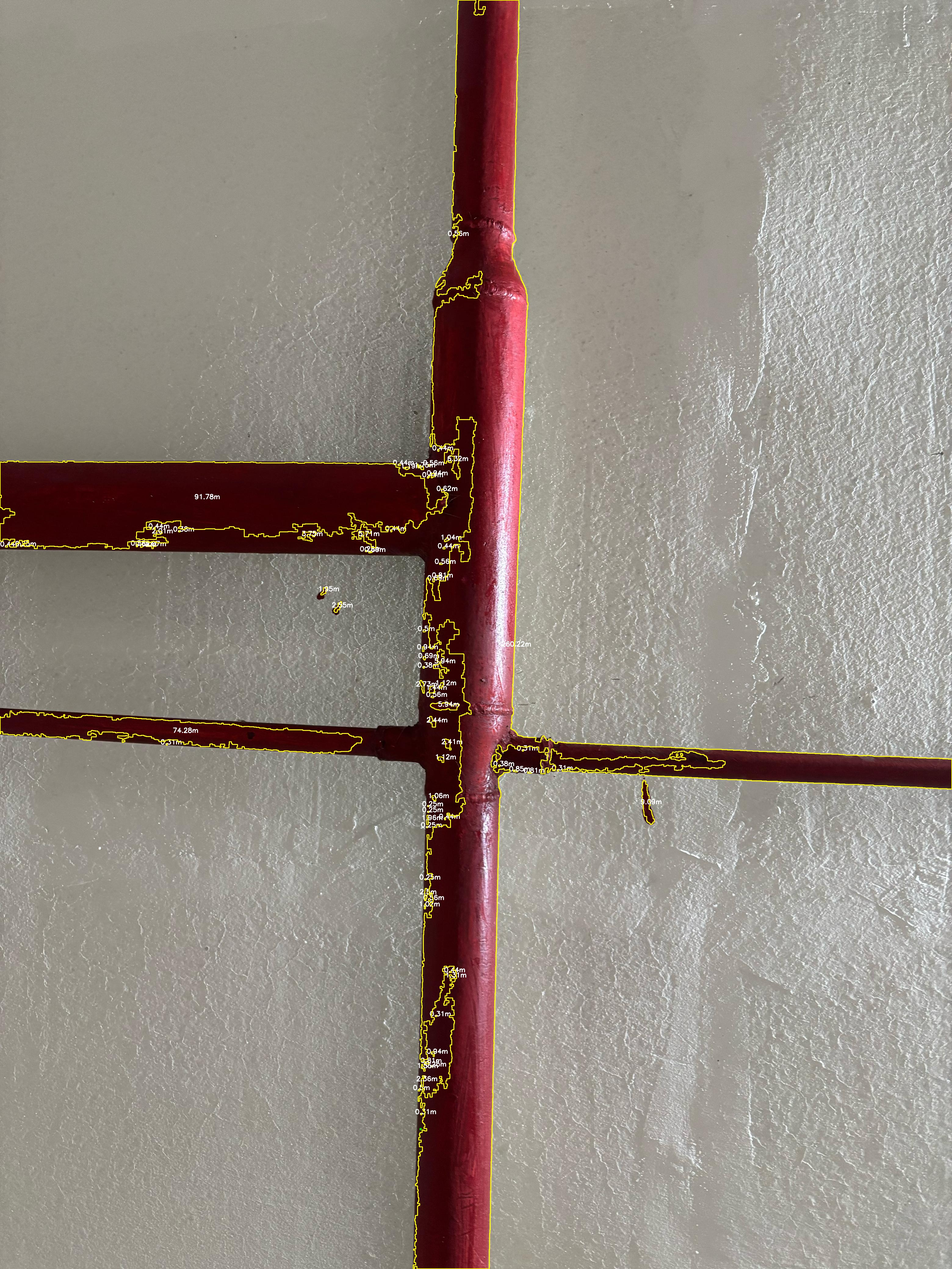
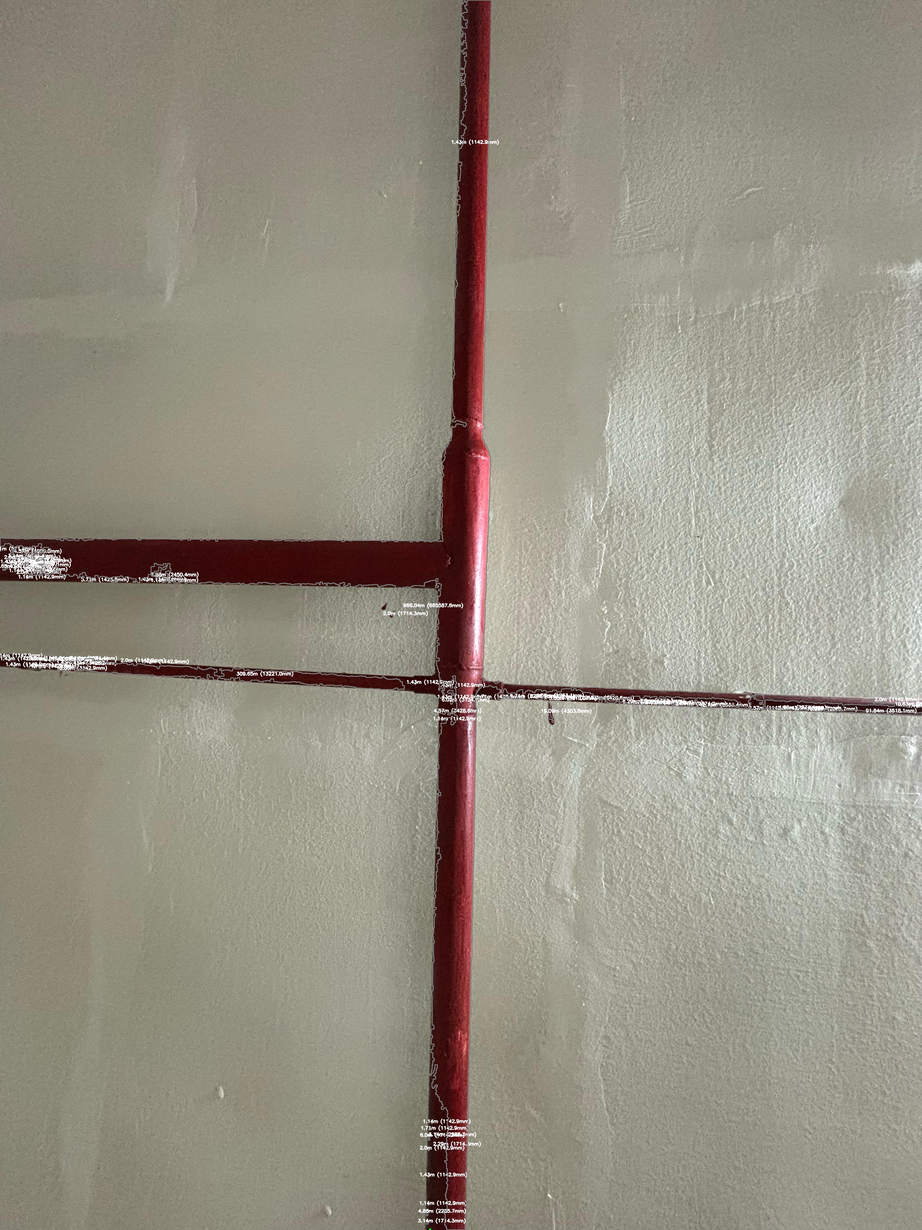
Agent query: I've updated the pipe detection system to better categorize pipes by width (25-100mm) and improved the contour detection. Could you upload an image with red pipes and verify if the measurements and categories are displayed correctly?
Improve red pipe detection and measurement accuracy by enhancing contour filtering and marker identification algorithms.

Screenshot: https://storage.googleapis.com/screenshot-production-us-central1/626894c5-1d1b-48e9-a184-a506bbf94379/c9bf23ca-54bd-43b7-bfec-9a5898424e72.jpg

diff --git a/image_processor.py b/image_processor.py
@@ -27,12 +27,36 @@ class PipeImageProcessor:
         # Create mask for red objects
         mask = self._create_red_mask(hsv)
 
-        # Find contours
-        contours, _ = cv2.findContours(mask, cv2.RETR_EXTERNAL, cv2.CHAIN_APPROX_SIMPLE)
+        # Find contours with hierarchy
+        contours, hierarchy = cv2.findContours(
+            mask, 
+            cv2.RETR_TREE,  # Changed to TREE to get hierarchy information
+            cv2.CHAIN_APPROX_SIMPLE
+        )
 
-        # Find marker (assuming the smallest red object is the reference marker)
-        marker_contour = min(contours, key=cv2.contourArea) if contours else None
+        if not contours:
+            raise ValueError("No red objects detected in the image")
 
+        # Filter contours by area and shape
+        filtered_contours = []
+        for i, contour in enumerate(contours):
+            # Skip small noise contours
+            if cv2.contourArea(contour) < 100:
+                continue
+
+            # Approximate contour shape
+            epsilon = 0.02 * cv2.arcLength(contour, True)
+            approx = cv2.approxPolyDP(contour, epsilon, True)
+
+            # Filter based on shape complexity
+            if len(approx) > 4 and len(approx) < 15:  # Complex enough to be a pipe
+                filtered_contours.append(contour)
+
+        if not filtered_contours:
+            raise ValueError("No valid pipe contours detected")
+
+        # Find marker (now using contour properties for better detection)
+        marker_contour = self._find_marker(filtered_contours)
         if marker_contour is None:
             raise ValueError("No reference marker found in the image")
 
@@ -41,8 +65,8 @@ class PipeImageProcessor:
 
         # Process pipe contours
         pipe_measurements = []
-        for contour in contours:
-            if contour is marker_contour:
+        for contour in filtered_contours:
+            if np.array_equal(contour, marker_contour):
                 continue
 
             width, length = self._measure_pipe(contour, pixels_per_mm)
@@ -65,26 +89,53 @@ class PipeImageProcessor:
         }
 
     def _create_red_mask(self, hsv_image: np.ndarray) -> np.ndarray:
-        """Create a binary mask for red objects"""
+        """Create a binary mask for red objects with improved thresholding"""
         mask = np.zeros(hsv_image.shape[:2], dtype=np.uint8)
         for (lower, upper) in self.red_ranges:
             range_mask = cv2.inRange(hsv_image, np.array(lower), np.array(upper))
             mask = cv2.bitwise_or(mask, range_mask)
 
-        # Apply morphological operations to clean up the mask
+        # Enhanced morphological operations
         kernel = np.ones((5,5), np.uint8)
         mask = cv2.morphologyEx(mask, cv2.MORPH_OPEN, kernel)
         mask = cv2.morphologyEx(mask, cv2.MORPH_CLOSE, kernel)
+
+        # Additional noise removal
+        mask = cv2.medianBlur(mask, 5)
         return mask
 
+    def _find_marker(self, contours: List[np.ndarray]) -> np.ndarray:
+        """Find the reference marker using improved criteria"""
+        marker_candidates = []
+        for contour in contours:
+            # Approximate the contour
+            epsilon = 0.02 * cv2.arcLength(contour, True)
+            approx = cv2.approxPolyDP(contour, epsilon, True)
+
+            # Check if it's roughly rectangular (4 corners)
+            if len(approx) == 4:
+                # Calculate aspect ratio
+                x, y, w, h = cv2.boundingRect(contour)
+                aspect_ratio = float(w)/h
+                # Check if it's roughly square
+                if 0.8 <= aspect_ratio <= 1.2:
+                    marker_candidates.append(contour)
+
+        # Return the smallest valid marker candidate
+        if marker_candidates:
+            return min(marker_candidates, key=cv2.contourArea)
+        return None
+
     def _calculate_scale(self, marker_contour: np.ndarray) -> float:
-        """Calculate pixels per marker length"""
-        marker_pixels = cv2.arcLength(marker_contour, True)
-        return marker_pixels / 4  # Perimeter divided by 4 for square marker
+        """Calculate pixels per marker length using improved method"""
+        rect = cv2.minAreaRect(marker_contour)
+        # Use the average of width and height for more accurate measurement
+        marker_size = (rect[1][0] + rect[1][1]) / 2
+        return marker_size
 
     def _measure_pipe(self, contour: np.ndarray, pixels_per_mm: float) -> Tuple[float, float]:
-        """Measure the width and length of a pipe in millimeters and meters"""
-        # Find the minimum area rectangle that bounds the pipe
+        """Measure the width and length of a pipe with improved accuracy"""
+        # Use minimum area rectangle for more accurate measurements
         rect = cv2.minAreaRect(contour)
         width = min(rect[1][0], rect[1][1])  # Shorter side is the width
         length = max(rect[1][0], rect[1][1])  # Longer side is the length

diff --git a/utils.py b/utils.py
@@ -8,8 +8,13 @@ def display_results(image: np.ndarray, results: Dict) -> str:
     # Create a copy of the image for drawing
     output = image.copy()
 
-    # Draw marker contour
-    cv2.drawContours(output, [results['marker_contour']], -1, (0, 255, 0), 2)
+    # Draw marker contour with label
+    marker_contour = results['marker_contour']
+    cv2.drawContours(output, [marker_contour], -1, (0, 255, 0), 2)
+    # Add marker label
+    x, y, w, h = cv2.boundingRect(marker_contour)
+    cv2.putText(output, "Reference Marker", (x, y-10),
+                cv2.FONT_HERSHEY_SIMPLEX, 0.5, (0, 255, 0), 2)
 
     # Colors for different categories
     category_colors = {
@@ -40,6 +45,14 @@ def display_results(image: np.ndarray, results: Dict) -> str:
             text = f"{length}m ({width}mm)"
             cv2.putText(output, text, (cx-30, cy), 
                        cv2.FONT_HERSHEY_SIMPLEX, 0.5, (255, 255, 255), 2)
+
+    # Add legend
+    legend_y = 30
+    cv2.putText(output, "Pipe Categories:", (10, legend_y),
+                cv2.FONT_HERSHEY_SIMPLEX, 0.6, (255, 255, 255), 2)
+    for i, (category, color) in enumerate(category_colors.items(), 1):
+        cv2.putText(output, f"- {category.title()}", (20, legend_y + i*20),
+                   cv2.FONT_HERSHEY_SIMPLEX, 0.5, color, 2)
 
     # Print results grouped by category
     print("\nPipe Measurements by Category:")
